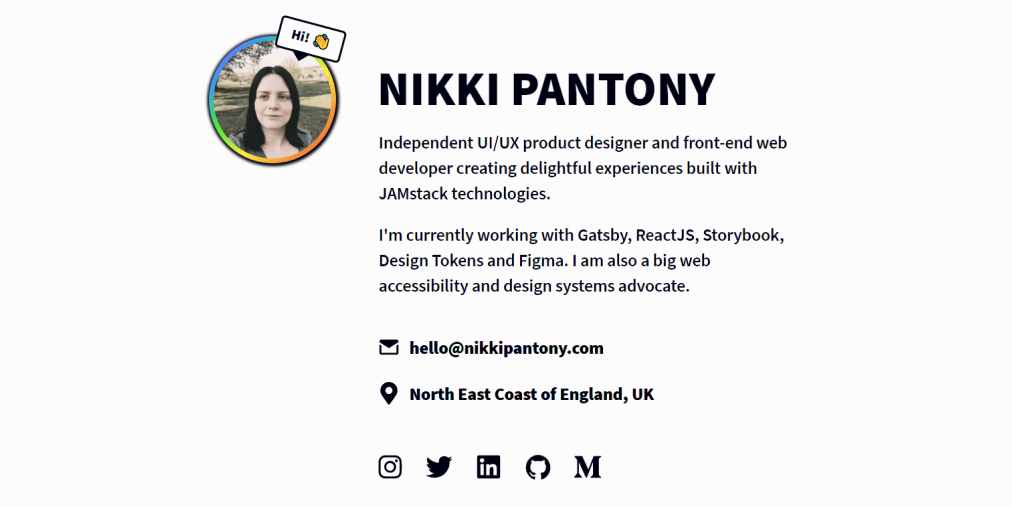
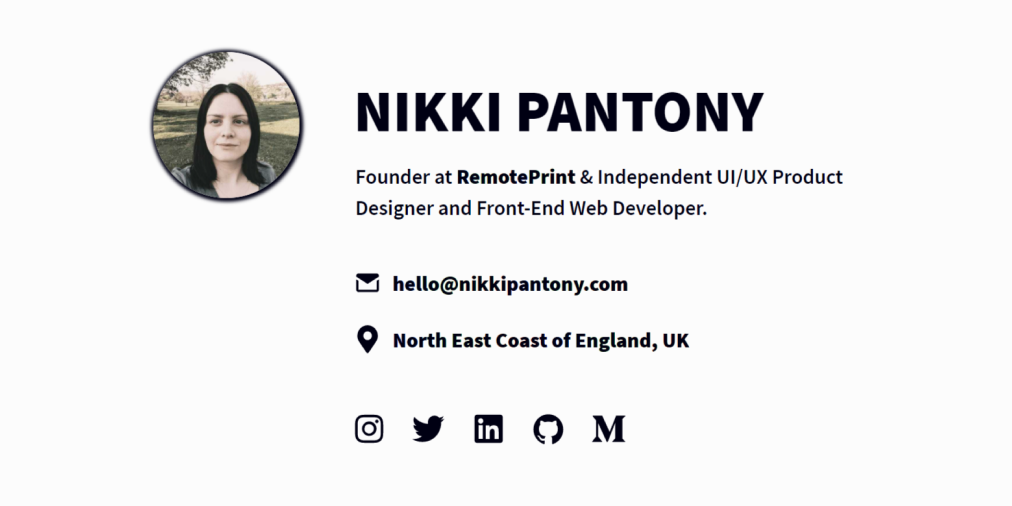
Update content to include RemotePrint

diff --git a/src/04_Molecules/Contact/_Contact.scss b/src/04_Molecules/Contact/_Contact.scss
@@ -2,39 +2,6 @@
     li {
         line-height: 34px;
 
-        a {
-            position: relative;
-            font-size: font-size(cxs);
-
-            @media (min-width: breakpoint(s)) {
-                font-size: font-size(cm);
-            }
-
-            background-image: linear-gradient(
-                -45deg,
-                #ce0e00,
-                #cc6300,
-                #dbc500,
-                #12d600,
-                #006ed4,
-                #9b00ca 100%
-            );
-            background-size: 50% 50%;
-            color: brand-color(midnight);
-            background-color: transparent;
-            background-clip: text;
-            -webkit-background-clip: text;
-            transition: opacity transition(ease-in-out);
-
-            &:hover,
-            &:active,
-            &.focus-visible {
-                background-position: 0 0;
-                color: transparent;
-                background-color: brand-color(snow);
-            }
-        }
-
         svg {
             width: 26px;
             height: 26px;
@@ -44,25 +11,6 @@
                 width: 34px;
                 height: 34px;
                 margin: 20px 14px -7px 0;
-            }
-        }
-    }
-}
-
-.dark-mode {
-    .contact-details {
-        li {
-            a {
-                color: brand-color(dark-midnight);
-                border-color: brand-color(dark-midnight);
-
-                &:hover,
-                &:active,
-                &.focus-visible {
-                    background-position: 0 0;
-                    color: transparent;
-                    background-color: brand-color(dark-midnight);
-                }
             }
         }
     }

diff --git a/src/03_Atoms/Typography/Typography.scss b/src/03_Atoms/Typography/Typography.scss
@@ -96,19 +96,58 @@ p {
 a,
 a:link,
 a:visited {
+    position: relative;
     font-family: typeface(sourcesans);
-    font-size: font-size(cm);
+    font-size: font-size(cxs);
     font-weight: font-weight(bold);
     line-height: leading(regular);
     letter-spacing: tracking(normal);
-
     text-decoration: none;
+    background-image: linear-gradient(
+        -45deg,
+        #ce0e00,
+        #cc6300,
+        #dbc500,
+        #12d600,
+        #006ed4,
+        #9b00ca 100%
+    );
+    background-size: 50% 50%;
+    color: brand-color(midnight);
+    background-color: transparent;
+    background-clip: text;
+    -webkit-background-clip: text;
+    transition: opacity transition(ease-in-out);
+
+    @media (min-width: breakpoint(s)) {
+        font-size: font-size(cm);
+    }
 
     &:hover,
     &:active,
     &.focus-visible {
         border-bottom: border(default);
         text-decoration: none;
+        background-position: 0 0;
+        color: transparent;
+        background-color: brand-color(snow);
+    }
+}
+
+.dark-mode {
+    a,
+    a:link,
+    a:visited {
+        color: brand-color(dark-midnight);
+        border-color: brand-color(dark-midnight);
+
+        &:hover,
+        &:active,
+        &.focus-visible {
+            background-position: 0 0;
+            color: transparent;
+            background-color: brand-color(dark-midnight);
+        }
     }
 }
 

diff --git a/src/07_Pages/index.js b/src/07_Pages/index.js
@@ -24,14 +24,16 @@ const IndexPage = () => (
         <div>
             <h1>NIKKI PANTONY</h1>
             <p>
-                Independent UI/UX product designer and front-end web developer
-                creating delightful experiences built with JAMstack
-                technologies.
-            </p>
-            <p>
-                I'm currently working with Gatsby, ReactJS, Storybook, Design
-                Tokens and Figma. I am also a big web accessibility and design
-                systems advocate.
+                Founder at{" "}
+                <a
+                    href="https://remoteprint.co"
+                    target="_blank"
+                    rel="noreferrer"
+                >
+                    RemotePrint
+                </a>{" "}
+                & Independent UI/UX Product Designer and Front-End Web
+                Developer.
             </p>
             <Contact />
             <Social />
